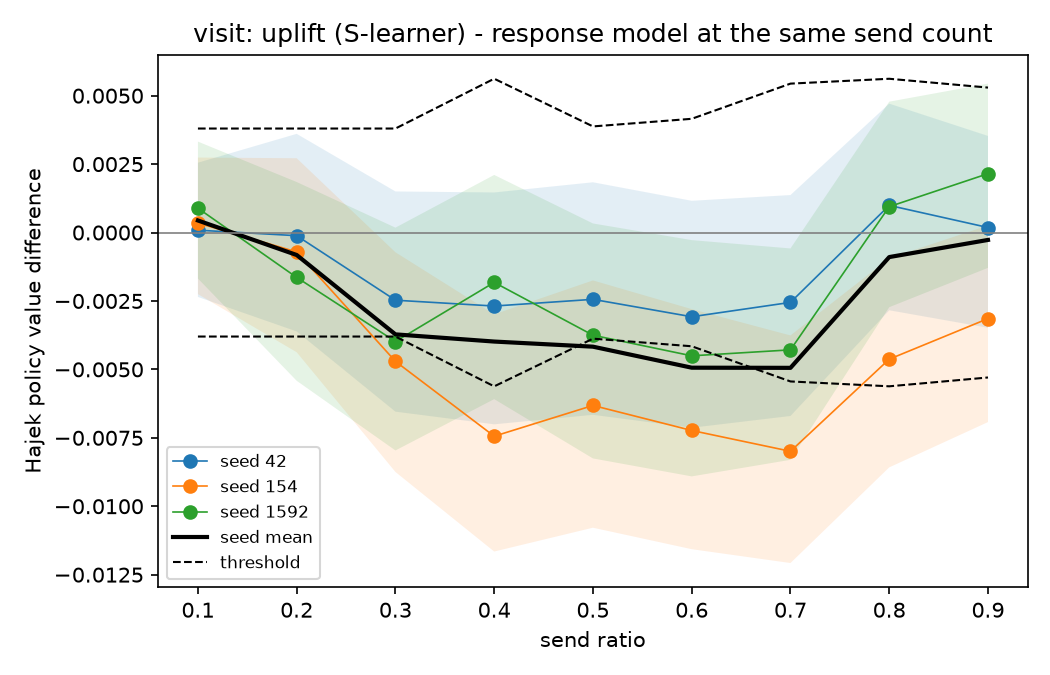
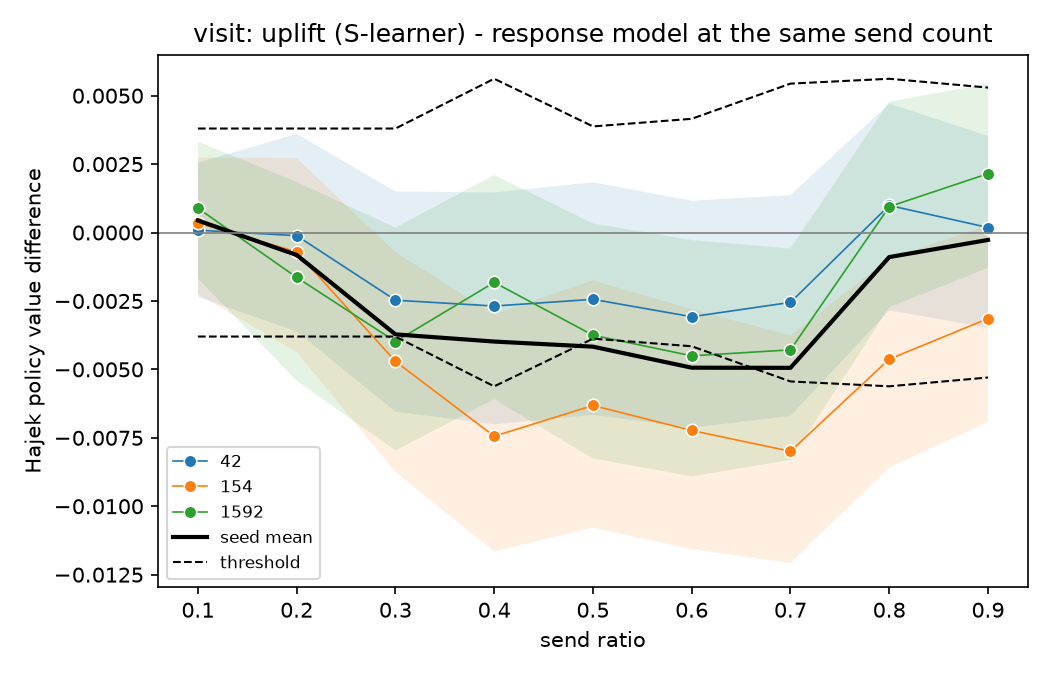
budget_plot을 seaborn으로 그림(analyses 규약, PR 전 1단계 검토 6)

diff --git a/src/uplift/plots.py b/src/uplift/plots.py
@@ -148,13 +148,31 @@ def send_ratio_plot(values: pd.DataFrame, references: dict[str, float], title: s
 
 def budget_plot(differences: pd.DataFrame, judged: pd.DataFrame) -> Figure:
     fig, ax = plt.subplots(figsize=(7, 4.5))
+    sns.lineplot(
+        data=differences.assign(seed=differences["seed"].astype(str)),
+        x="ratio",
+        y="estimate",
+        hue="seed",
+        marker="o",
+        linewidth=0.8,
+        ax=ax,
+    )
     for seed, part in differences.groupby("seed"):
         part = part.sort_values("ratio")
-        x = part["ratio"].to_numpy()
-        ax.plot(x, part["estimate"], marker="o", linewidth=0.8, label=f"seed {seed}")
-        ax.fill_between(x, part["low"], part["high"], alpha=0.12)
-    ax.plot(judged["ratio"], judged["mean_diff"], color="black", linewidth=2, label="seed mean")
-    ax.plot(judged["ratio"], judged["threshold"], "k--", linewidth=1, label="threshold")
+        ax.fill_between(part["ratio"], part["low"], part["high"], alpha=0.12)
+    sns.lineplot(
+        data=judged, x="ratio", y="mean_diff", color="black", linewidth=2, label="seed mean", ax=ax
+    )
+    sns.lineplot(
+        data=judged,
+        x="ratio",
+        y="threshold",
+        color="black",
+        linestyle="--",
+        linewidth=1,
+        label="threshold",
+        ax=ax,
+    )
     ax.plot(judged["ratio"], -judged["threshold"], "k--", linewidth=1)
     ax.axhline(0, color="gray", linewidth=0.8)
     ax.set(
